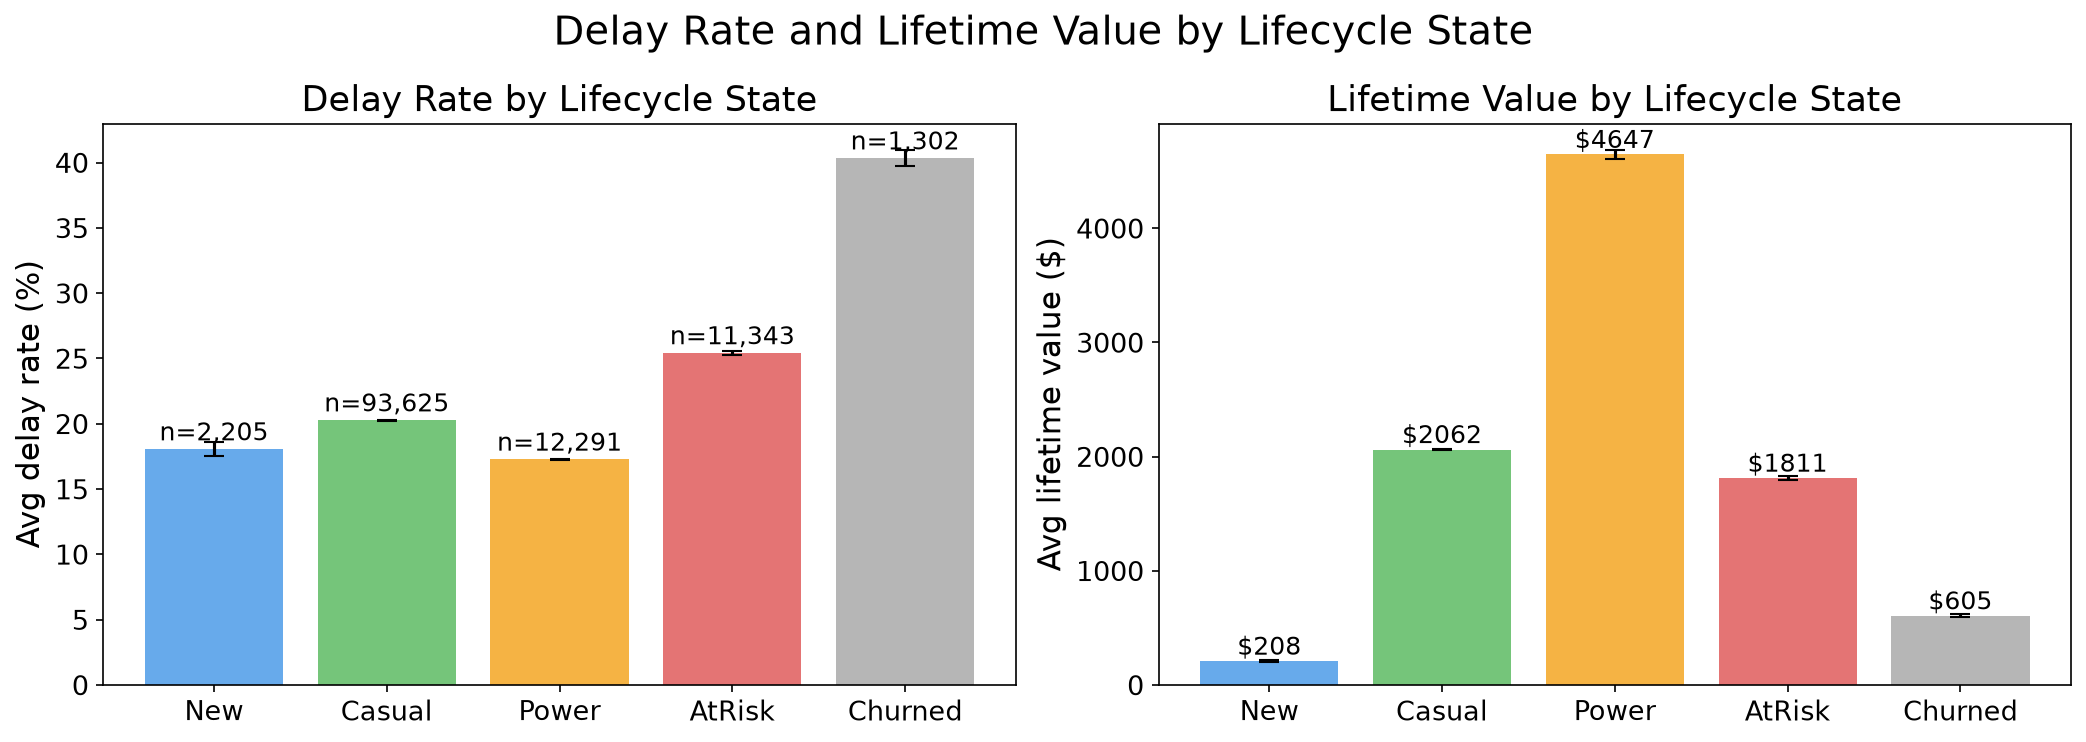
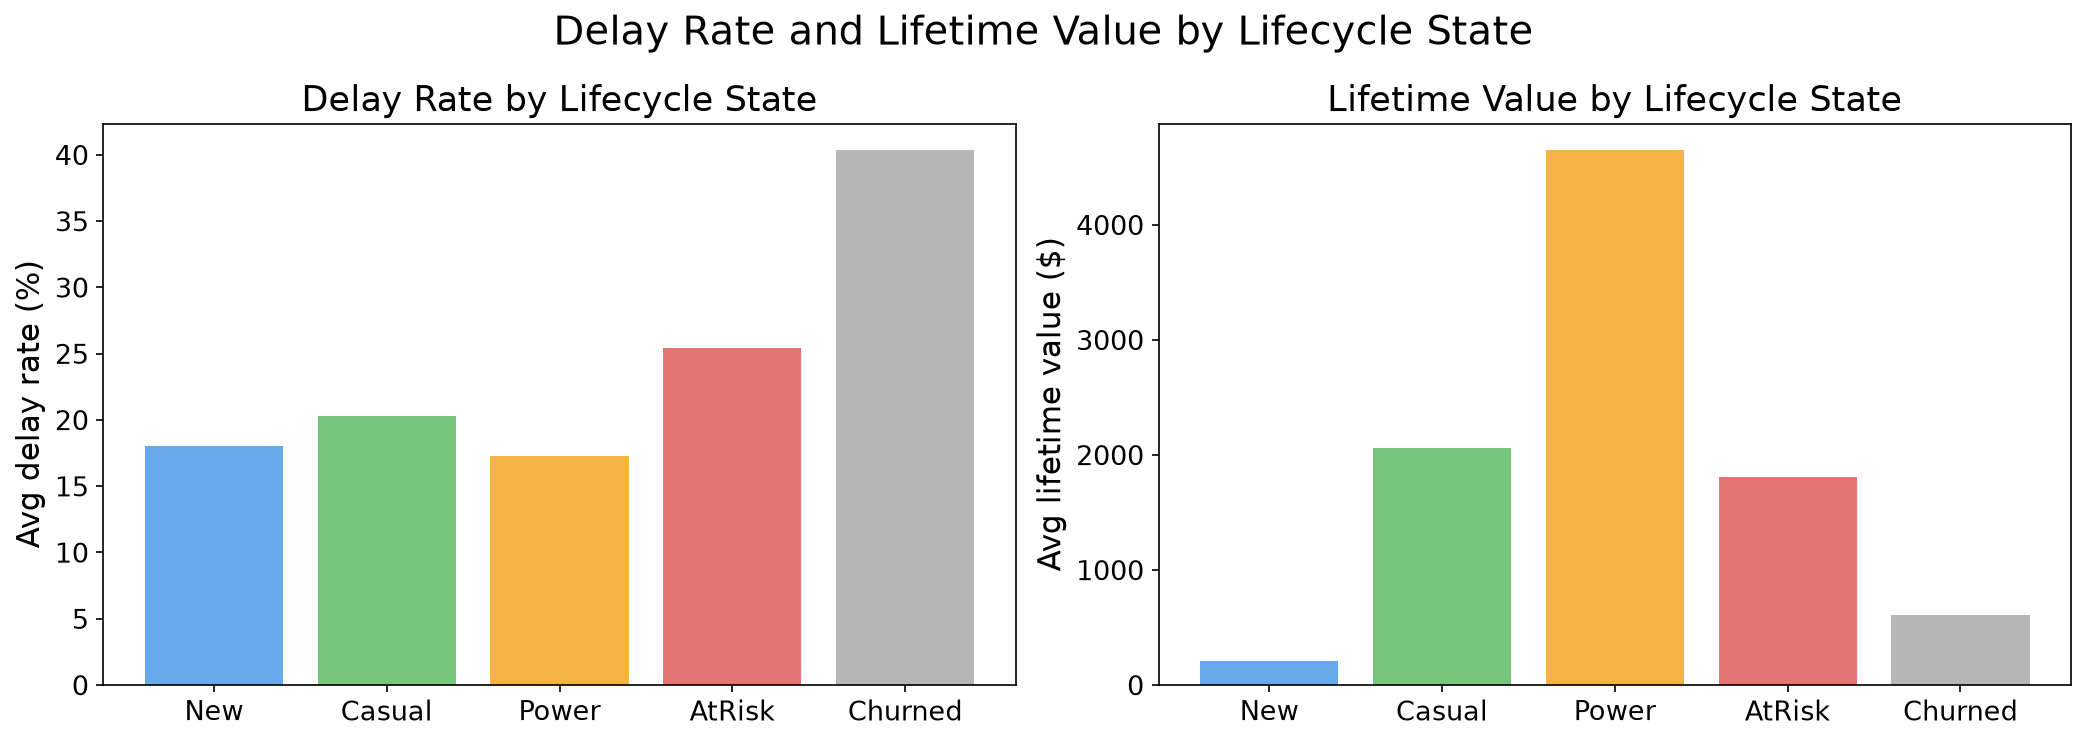
update paper figures

diff --git a/ab_validation/plot_figure.py b/ab_validation/plot_figure.py
@@ -18,6 +18,9 @@ sys.path.insert(0, str(ROOT))
 import numpy as np
 import matplotlib; matplotlib.use("Agg")
 import matplotlib.pyplot as plt
+from scipy.interpolate import PchipInterpolator
+from scipy.integrate import trapezoid
+from scipy.ndimage import gaussian_filter1d
 
 # ── Paths ─────────────────────────────────────────────────────────────────────
 CACHE_PATH = Path(__file__).parent / "cache" / "ab_validation_cache.npz"
@@ -77,28 +80,29 @@ print(f"Loaded cache: K_SWEEP={K_SWEEP}  n_act={n_act:,}  N_WEEKS={N_WEEKS}")
 def _row_norm(mat):
     return mat / mat.sum(axis=1, keepdims=True).clip(1)
 
-def _plot_matrix(ax, prob_mat, count_mat, title):
+def _plot_matrix(ax, prob_mat, title):
     im = ax.imshow(prob_mat, vmin=0, vmax=1, cmap="Blues", aspect="auto")
     for i in range(N_STATES):
         for j in range(N_STATES):
-            v = prob_mat[i, j]; c = int(count_mat[i, j])
-            ax.text(j, i, f"{v:.2f}\n(n={c:,})", ha="center", va="center",
-                    fontsize=11, color="white" if v > 0.55 else "black")
-    ax.set_xticks(range(N_STATES)); ax.set_xticklabels(STATE_NAMES, fontsize=13)
-    ax.set_yticks(range(N_STATES)); ax.set_yticklabels(STATE_NAMES, fontsize=13)
-    ax.set_xlabel("State at end of day (t+1)", fontsize=15)
-    ax.set_ylabel("State at start of day (t)", fontsize=15)
-    ax.set_title(title, fontsize=17)
-    cb = plt.colorbar(im, ax=ax, shrink=0.75)
-    cb.set_label("Transition probability", fontsize=14)
-    cb.ax.tick_params(labelsize=12)
+            v = prob_mat[i, j]
+            ax.text(j, i, f"{v:.2f}", ha="center", va="center",
+                    fontsize=15, color="white" if v > 0.55 else "black")
+    ax.set_xticks(range(N_STATES))
+    ax.set_xticklabels(STATE_NAMES, fontsize=16)
+    ax.set_yticks(range(N_STATES)); ax.set_yticklabels(STATE_NAMES, fontsize=16)
+    ax.set_title(title, fontsize=19)
+    return im
 
-fig1, axes1 = plt.subplots(1, 3, figsize=(22, 6))
-_plot_matrix(axes1[0], _row_norm(trans_organic.astype(float)), trans_organic, "Did Not Order")
-_plot_matrix(axes1[1], _row_norm(trans_ontime.astype(float)),  trans_ontime,  "Ordered, On-Time")
-_plot_matrix(axes1[2], _row_norm(trans_delay.astype(float)),   trans_delay,   "Ordered, Delayed")
-fig1.suptitle("Daily Lifecycle Transition Probabilities", fontsize=19)
-fig1.tight_layout()
+fig1, axes1 = plt.subplots(1, 3, figsize=(18, 5.9), sharey=True, layout="constrained")
+im = _plot_matrix(axes1[0], _row_norm(trans_organic.astype(float)), "Did Not Order")
+_plot_matrix(axes1[1], _row_norm(trans_ontime.astype(float)), "Ordered, On-Time")
+_plot_matrix(axes1[2], _row_norm(trans_delay.astype(float)), "Ordered, Delayed")
+fig1.supxlabel("State at end of day (t+1)", fontsize=17)
+fig1.supylabel("State at start of day (t)", fontsize=17)
+cb = fig1.colorbar(im, ax=axes1, shrink=0.75, pad=0.02)
+cb.set_label("Transition probability", fontsize=16)
+cb.ax.tick_params(labelsize=14)
+fig1.suptitle("Daily Lifecycle Transition Probabilities", fontsize=21)
 out1 = OUT_DIR / "figure1_lifecycle_transition.png"
 fig1.savefig(str(out1), dpi=150, bbox_inches="tight"); plt.close(fig1)
 print(f"Saved → {out1}")
@@ -110,32 +114,22 @@ print(f"Saved → {out1}")
 with np.errstate(invalid="ignore", divide="ignore"):
     ss_dr = np.where(matched_cum > 0, delayed_cum / matched_cum, np.nan)
 
-dr_means, dr_errs, dr_ns = [], [], []
-val_means, val_errs      = [], []
+dr_means, val_means = [], []
 for s in range(N_STATES):
     mask_dr = (lc_final == s) & ~np.isnan(ss_dr)
     dr_s  = ss_dr[mask_dr] * 100
     val_s = spend_final[lc_final == s]
     dr_means.append(dr_s.mean()  if len(dr_s)  > 0 else 0.0)
-    dr_errs.append(dr_s.std()  / np.sqrt(max(len(dr_s), 1)))
-    dr_ns.append(len(dr_s))
     val_means.append(val_s.mean() if len(val_s) > 0 else 0.0)
-    val_errs.append(val_s.std() / np.sqrt(max(len(val_s), 1)))
 
 fig2, (ax_dr, ax_val) = plt.subplots(1, 2, figsize=(14, 5))
 
-bars_dr = ax_dr.bar(STATE_NAMES, dr_means, color=STATE_COLORS, alpha=0.85, yerr=dr_errs, capsize=5)
-for bar, n_b in zip(bars_dr, dr_ns):
-    ax_dr.text(bar.get_x() + bar.get_width()/2, bar.get_height() + max(dr_errs) * 0.1 + 0.15,
-               f"n={n_b:,}", ha="center", va="bottom", fontsize=12)
+ax_dr.bar(STATE_NAMES, dr_means, color=STATE_COLORS, alpha=0.85)
 ax_dr.set_ylabel("Avg delay rate (%)", fontsize=15)
 ax_dr.set_title("Delay Rate by Lifecycle State", fontsize=17)
 ax_dr.tick_params(axis="both", labelsize=13); ax_dr.set_ylim(0, None)
 
-bars_val = ax_val.bar(STATE_NAMES, val_means, color=STATE_COLORS, alpha=0.85, yerr=val_errs, capsize=5)
-for bar, v_m in zip(bars_val, val_means):
-    ax_val.text(bar.get_x() + bar.get_width()/2, bar.get_height() + max(val_errs) * 0.1 + 0.5,
-                f"${v_m:.0f}", ha="center", va="bottom", fontsize=12)
+ax_val.bar(STATE_NAMES, val_means, color=STATE_COLORS, alpha=0.85)
 ax_val.set_ylabel("Avg lifetime value ($)", fontsize=15)
 ax_val.set_title("Lifetime Value by Lifecycle State", fontsize=17)
 ax_val.tick_params(axis="both", labelsize=13); ax_val.set_ylim(0, None)
@@ -257,13 +251,14 @@ plt.rcParams.update({
 fig4, (left, right) = plt.subplots(1, 2, figsize=(17.2, 6.4))
 fig4.subplots_adjust(left=.20, right=.975, top=.88, bottom=.27, wspace=.35)
 yy = np.arange(len(labels))
+cbps_color = "#008c95"
 left.barh(yy-.19, before, height=.30, color="#aebcc6", label="Before weighting")
-left.barh(yy+.19, after, height=.30, color="#008c95", label="After CBPS")
+left.barh(yy+.19, after, height=.30, color=cbps_color, label="After CBPS")
 margin = max(.006, .015 * before.max())
 for j, (x, y) in enumerate(zip(before, after)):
     left.text(x+margin, j-.19, f"{x:.3f}", fontsize=14, va="center")
     left.text(y+margin, j+.19, f"{y:.4f}", fontsize=14, va="center",
-              color="#008c95")
+              color=cbps_color, fontweight="bold")
 left.set_yticks(yy, labels)
 left.invert_yaxis()
 left.set_xlim(0, max(.12, float(max(before.max(), after.max()))*1.28))
@@ -276,15 +271,22 @@ left.grid(axis="x", color="#dce4e7", lw=.8)
 left.set_axisbelow(True)
 left.spines[["top", "right"]].set_visible(False)
 
+# Approximate each density from the saved bins;
+# Smooth the CDF-spline derivative to avoid kinks at coarse bin edges.
+score_grid = np.linspace(0, 1, 501)
 for arm, (color, label) in enumerate((("#335c81", "On time"), ("#bf5e35", "Delayed"))):
-    density = hist[arm] / n_arm[arm] / np.diff(bins)
-    right.stairs(density, bins, fill=True, color=color, alpha=.085)
-    right.stairs(density, bins, color=color, lw=2.3, label=label)
+    cdf_at_bins = np.r_[0., np.cumsum(hist[arm] / n_arm[arm])]
+    cdf_at_bins[-1] = 1.
+    density = np.maximum(PchipInterpolator(bins, cdf_at_bins).derivative()(score_grid), 0.)
+    density = gaussian_filter1d(density, sigma=0.012 / np.diff(score_grid)[0])
+    density /= trapezoid(density, score_grid)
+    right.fill_between(score_grid, density, color=color, alpha=.085)
+    right.plot(score_grid, density, color=color, lw=2.3, label=label)
 right.set_xlim(0, 1)
 right.set_ylim(bottom=0)
 right.set_xticks(np.arange(0, 1.01, .2))
 right.set_xlabel("Predicted delay probability")
-right.set_ylabel("Within-arm density")
+right.set_ylabel("Estimated density")
 right.set_title("Overlap Checks", pad=13)
 right.legend(frameon=False, fontsize=15)
 right.grid(axis="y", color="#dce4e7", lw=.8)

diff --git a/switchback_validation/plot_figure.py b/switchback_validation/plot_figure.py
@@ -53,8 +53,8 @@ print(f"  τ_DM:    mean={tau_dm.mean():+.2f}  std={tau_dm.std():.2f}  (GT {gt_d
 print(f"  δS_SB:   mean={dspend_sb.mean():+.2f}  std={dspend_sb.std():.2f}")
 print(f"  Chronos: mean={pred.mean():+.2f}  std={pred.std():.2f}  (GT {gt_lt:+.2f}%)")
 
-def _box(ax, data_list, positions, colors):
-    bp = ax.boxplot(data_list, positions=positions, widths=0.45, patch_artist=True,
+def _box(ax, data_list, positions, colors, widths=0.45):
+    bp = ax.boxplot(data_list, positions=positions, widths=widths, patch_artist=True,
                     showmeans=True, meanline=True,
                     meanprops=dict(color="black", lw=2.0),
                     medianprops=dict(visible=False),
@@ -62,20 +62,21 @@ def _box(ax, data_list, positions, colors):
                     flierprops=dict(marker="o", ms=4, mfc="#999", mec="none", alpha=0.5))
     for patch, c in zip(bp["boxes"], colors):
         patch.set_facecolor(c); patch.set_alpha(0.45); patch.set_edgecolor(c)
+    ax.plot([], [], color="black", ls="--", lw=2, label="Mean estimate")
 
 fig, (axL, axR) = plt.subplots(1, 2, figsize=(11, 5.5))
 
 # ── Left: 28-day delay impact ─────────────────────────────────────────────────
-_box(axL, [tau_dm], [1], [C_SB])
+_box(axL, [tau_dm], [1], [C_SB], widths=0.225)
 axL.axhline(gt_delay, color=C_GT, ls="--", lw=2.5, label="True Delay Impact")
 axL.axhline(0, color="gray", lw=1.0, ls="--")
-axL.set_xticks([1]); axL.set_xticklabels(["Switchback\nestimate"], fontsize=17)
+axL.set_xticks([1]); axL.set_xticklabels(["Switchback\nestimate"], fontsize=11)
 axL.set_xlim(0.5, 1.5)
 axL.set_ylim(-12, 1)
-axL.tick_params(axis="y", labelsize=14)
-axL.set_ylabel("28-day delay rate change (pp)", fontsize=15)
-axL.set_title("Delay impact", fontsize=17)
-axL.legend(fontsize=14, loc="upper left")
+axL.tick_params(axis="y", labelsize=11)
+axL.set_ylabel("28-day delay rate change (pp)", fontsize=12)
+axL.set_title("Delay impact", fontsize=13)
+axL.legend(fontsize=10, loc="upper left")
 axL.grid(axis="y", alpha=0.3)
 for sp in ["top", "right"]: axL.spines[sp].set_visible(False)
 
@@ -84,16 +85,16 @@ _box(axR, [dspend_sb, pred], [1, 2], [C_SB_LTV, C_CHR])
 axR.axhline(gt_lt, color=C_GT, ls="--", lw=2.5, label="True LTV Impact")
 axR.axhline(0, color="gray", lw=0.7, ls=":")
 axR.set_xticks([1, 2])
-axR.set_xticklabels(["Switchback\nestimate", "Chronos\nprediction"], fontsize=17)
+axR.set_xticklabels(["Switchback\nestimate", "Chronos\nprediction"], fontsize=11)
 axR.set_xlim(0.5, 2.5)
-axR.tick_params(axis="y", labelsize=14)
-axR.set_ylabel("Long-term value impact (%)", fontsize=15)
-axR.set_title("Long-term value impact", fontsize=17)
-axR.legend(fontsize=14, loc="best")
+axR.tick_params(axis="y", labelsize=11)
+axR.set_ylabel("Long-term value impact (%)", fontsize=12)
+axR.set_title("Long-term value impact", fontsize=13)
+axR.legend(fontsize=10, loc="best")
 axR.grid(axis="y", alpha=0.3)
 for sp in ["top", "right"]: axR.spines[sp].set_visible(False)
 
-fig.suptitle(f"Switchback validation across {len(fr)} eater-path reruns", fontsize=18)
+fig.suptitle(f"Boxplots of estimates across {len(fr)} simulation reruns", fontsize=15)
 fig.tight_layout(rect=[0, 0, 1, 0.96])
 
 OUT_DIR.mkdir(parents=True, exist_ok=True)
